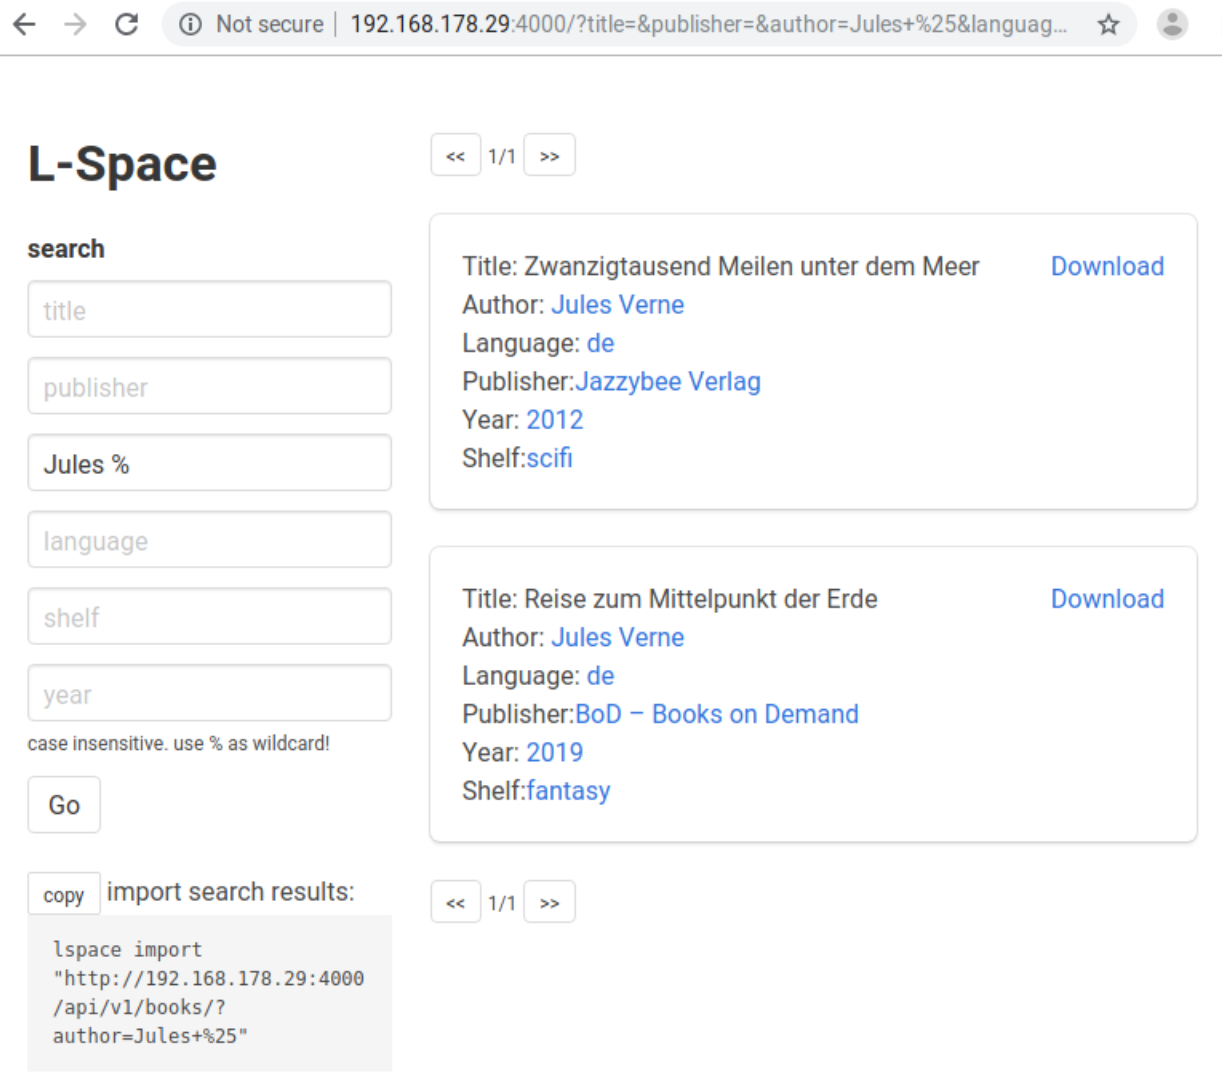
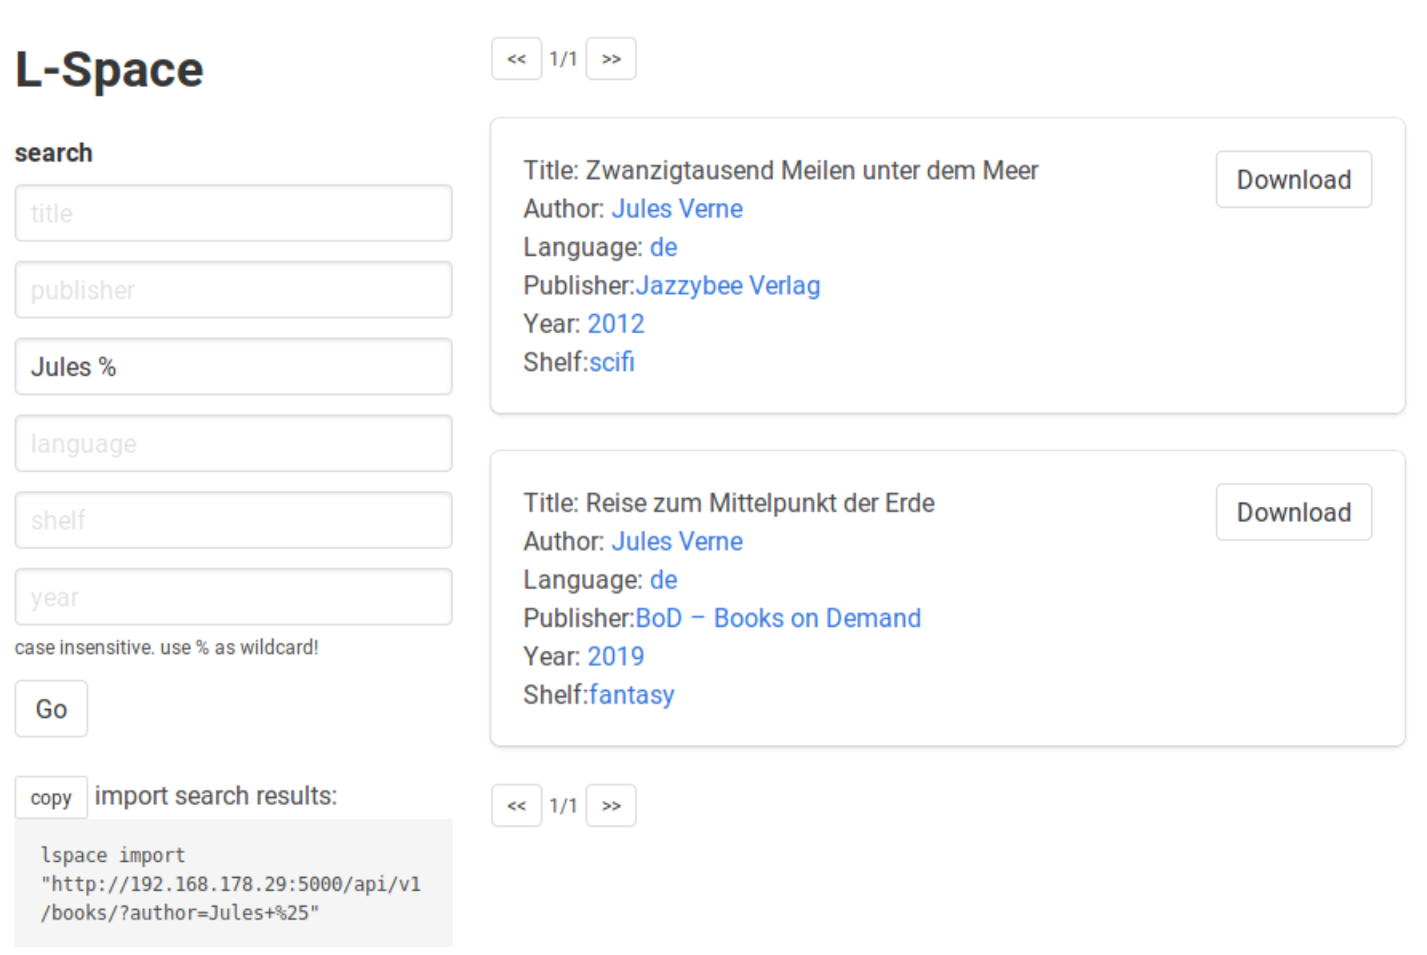
cosmetics

diff --git a/README.md b/README.md
@@ -136,6 +136,8 @@ to actually export to another format, you need "ebook-convert", which is part of
 
 `lspace web --host 0.0.0.0 --port 5000` 
 
+![L-Space web interface](https://raw.githubusercontent.com/puhoy/lspace/feature/api/lspace_screenshot.png "screenshot of the L-Space web interface")
+
 this also gives you the import command for your current search results!
 
 (or you can just download them manually..)
